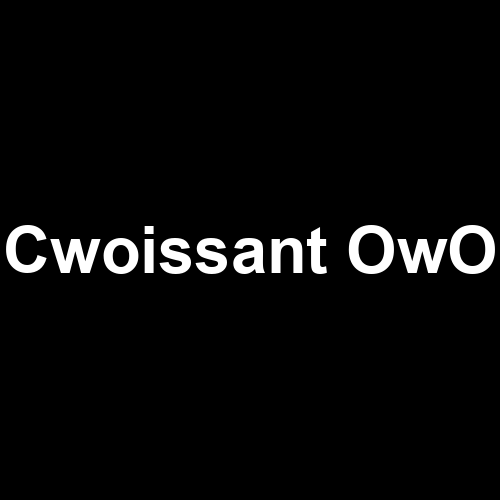
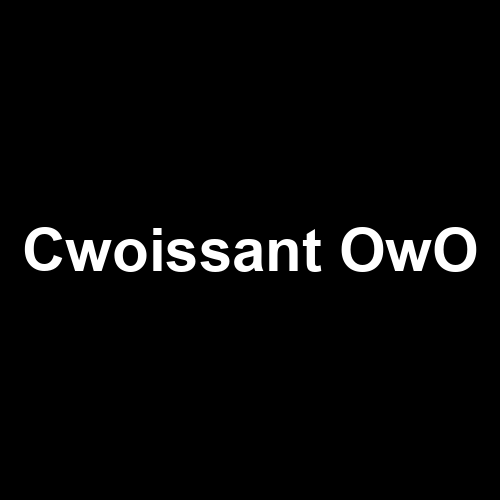
this is broken...

Changed region(s): [[0.0, 0.45, 0.99, 0.57]]

diff --git a/imagesmacker/draw.py b/imagesmacker/draw.py
@@ -97,23 +97,24 @@ class Draw:
 
         text_config = field_attributes.text_config
 
-        font_size = text_config.font_size
+        max_font_size = text_config.max_font_size
+        min_font_size = text_config.min_font_size
         anchor = text_config.anchor
         text_style = text_config.style
 
-        fsc = FontSizeCalculator(self.draw, text_config.font_filepath)
+        font_size_calculator = FontSizeCalculator(self.draw, text_config.font_filepath)
 
         field_x1, field_y1, field_x2, field_y2 = field_coords.xyxy()
-        field_x, field_y, field_width, field_height = field_coords.xywh()
+        field_x_coords, field_y, field_width, field_height = field_coords.xywh()
 
         # If the text is multiline or is allowed to be broken into multiple lines, then
         # we try to break it into multiple lines so that it can fit into the field
         if ("\n" in text) or text_config.break_text:
-            font_size, text_lines_list, text_height = self.break_text(
+            max_font_size, text_lines_list, text_height = self.break_text(
                 text=text,
                 text_config=text_config,
-                font_size=font_size,
-                fsc=fsc,
+                font_size=max_font_size,
+                fsc=font_size_calculator,
                 field_width=field_width,
                 field_height=field_height,
             )
@@ -123,45 +124,62 @@ class Draw:
             time_taken = time.time()
             # iterations benchmarking
             iterations = 0
+            # while True:
+            #     iterations += 1
+            #     text_width, text_height = font_size_calculator.get_text_bbox(font_size, text)
+            #     # If `text_width` is greater than `field_width` or if `text_height` is
+            #     # greater than `field_height`, then the `font_size` will be decremented
+            #     # by 1, and the loop will continue until the condition is no longer
+            #     # satisfied.
+            #     if (text_width > field_width) or (text_height > field_height):
+            #         min_font_size = 1  
+            #         max_font_size = font_size
+
+            #         inner_iterations = 0
+            #         ## Binary search to find the maximum font size that fits
+            #         while min_font_size <= max_font_size:
+            #             inner_iterations += 1
+            #             mid_font_size = (min_font_size + max_font_size) // 2
+            #             text_width, text_height = font_size_calculator.get_text_bbox(
+            #                 mid_font_size,
+            #                 text,
+            #             )
+
+            #             # Check if the text fits within the field dimensions
+            #             if text_width <= field_width and text_height <= field_height:
+            #                 # If it fits, try a larger font size
+            #                 font_size = mid_font_size
+            #                 min_font_size = mid_font_size + 1
+            #             else:
+            #                 # If it doesn't fit, try a smaller font size
+            #                 max_font_size = mid_font_size - 1
+            #         print("Inner iterations: ", inner_iterations)
+            #     else:
+            #         break
+
+            previous_max_font_size = max_font_size * 2
             while True:
                 iterations += 1
-                text_width, text_height = fsc.get_text_bbox(font_size, text)
+                text_width, text_height = font_size_calculator.get_text_bbox(max_font_size, text)
+                print(max_font_size, text_width, text_height, text_width >= (field_width * 0.9), text_height >= (field_height * 0.9))
                 # If `text_width` is greater than `field_width` or if `text_height` is
                 # greater than `field_height`, then the `font_size` will be decremented
                 # by 1, and the loop will continue until the condition is no longer
                 # satisfied.
+                
                 if (text_width > field_width) or (text_height > field_height):
-                    if(False):
-                        font_size -= 1
-                    else:
-                        min_font_size = 1  
-                        max_font_size = font_size
-
-                        inner_iterations = 0
-                        ## Binary search to find the maximum font size that fits
-                        while min_font_size <= max_font_size:
-                            inner_iterations += 1
-                            mid_font_size = (min_font_size + max_font_size) // 2
-                            text_width, text_height = fsc.get_text_bbox(
-                                mid_font_size,
-                                text,
-                            )
-
-                            # Check if the text fits within the field dimensions
-                            if text_width <= field_width and text_height <= field_height:
-                                # If it fits, try a larger font size
-                                font_size = mid_font_size
-                                min_font_size = mid_font_size + 1
-                            else:
-                                # If it doesn't fit, try a smaller font size
-                                max_font_size = mid_font_size - 1
-                        print("Inner iterations: ", inner_iterations)
+                    print("condition 1")
+                    previous_max_font_size = max_font_size
+                    max_font_size = max_font_size // 2
+                elif (text_width < (field_width * 0.9)) and (text_height < (field_height * 0.9)):
+                    print("condition 2")
+                    max_font_size = round((previous_max_font_size + max_font_size)/2)
                 else:
                     break
             # Time benchmark and iterations benchmark
             print("Time taken: ", time.time() - time_taken)
             print("Iterations: ", iterations)
-            print("Selected font size: ", font_size)
+            print("Selected font size: ", max_font_size)
 
 
         # If the text needs to be inverted (ie. turned upside down), then, it needs to
@@ -210,7 +228,7 @@ class Draw:
         draw_text_common_kwargs: dict[str, Any] = {
             "font": font_loader(
                 text_config.font_filepath,
-                font_size,
+                max_font_size,
             ),
             "anchor": anchor,
             "fill": text_style.fill,
@@ -226,7 +244,7 @@ class Draw:
             # but I have a deadline to meet, yknow?
 
             # text_height over length of text_lines_list
-            tholtlt = text_height / len(text_lines_list)
+            text_height_over_text_lines_list = text_height / len(text_lines_list)
 
             # there is a `vertical_additive` to place the multiline text exactly where
             # it is aligned to
@@ -248,19 +266,19 @@ class Draw:
                         else field_y + field_height - text_height
                     )
 
-            text_x = field_coords.text_coordinates(anchor=anchor)[0]  # type: ignore
+            text_x_coords = field_coords.text_coordinates(anchor=anchor)[0]  # type: ignore
 
             if text_config.inverted:
-                text_x -= field_x
+                text_x_coords -= field_x_coords
 
             draw_text_common_kwargs["anchor"] = anchor[0] + "m"
 
             for text_line, text_y in zip(
                 text_lines_list,
-                range(round(tholtlt / 2), text_height, round(tholtlt)),
+                range(round(text_height_over_text_lines_list / 2), text_height, round(text_height_over_text_lines_list)),
                 strict=True,
             ):
-                text_xy = (text_x, vertical_additive + text_y)
+                text_xy = (text_x_coords, vertical_additive + text_y)
                 draw.text(
                     text=text_line,
                     xy=text_xy,
@@ -342,8 +360,6 @@ class Draw:
                 j for i in text_lines_list for j in wrap(i, characters_per_field_width)
             ]
             length_tlt = len(text_lines_list)
-
-            
 
             # Measure the width and height of each line of text, then appened it
             # to the intialized lists earlier

diff --git a/imagesmacker/models/draw.py b/imagesmacker/models/draw.py
@@ -16,7 +16,8 @@ class TextStyle(BaseModel):
 class TextConfig(BaseModel):
     model_config = ConfigDict(extra="forbid")
     font_filepath: str
-    font_size: int = 100
+    min_font_size: int = 1
+    max_font_size: int = 100
     anchor: TextAnchor = "mm"
     break_text: bool = False
     line_height: float | int = 1.2

diff --git a/examples/02_text.py b/examples/02_text.py
@@ -16,7 +16,7 @@ draw = Draw(image)
 field_attributes = TextFieldAttributes(
     text_config=TextConfig(
         font_filepath=f"{parent_dir_nth_times(__file__, 2)}/assets/fonts/arial bold.ttf",
-        font_size=10000,
+        max_font_size=2,
         anchor="mm",
         style=TextStyle(fill="#fff"),
     ),

diff --git a/docs/changelog.md b/docs/changelog.md
@@ -1,3 +1,27 @@
+<h1 align="center" style="font-weight: bold">
+    Changelog
+</h1>
+
+This software uses [Semantic Versioning v2.0.0](https://semver.org/spec/v2.0.0.html). This changelog is based on [keepachangelog.com v1.1.0](https://keepachangelog.com/en/1.1.0/).
+
+**Types of Changes**
+
+- `Added` for new features.
+- `Changed` for changes in existing functionality.
+- `Deprecated` for soon-to-be removed features.
+- `Removed` for now removed features.
+- `Fixed` for any bug fixes.
+- `Security` in case of vulnerabilities.
+## 4.0.0 (Unreleased)
+
+### Added
+
+- Added parameter `min_font_size` to `imagesmacker.models.draw.TextConfig`
+- 
+### Changed
+
+- Changed `imagesmacker.models.draw.TextConfig`'s font_size` parameter name to `max_font_size`
+- Changed text fitting algorithm to be binary search-like
 ## 3.0.2
 
 ### Added
@@ -14,14 +38,14 @@ I do not think there is anything wrong with the codebase right now!!!
 
 ### Fixed
 
-- `imagesmacker.draw.Draw.text` can now draw inverted multiline text by [FUCKING SWAPPING THESE TWO CHARACTERS (`=-` TO `-=`) IN LINE 214 MY GOD](https://github.com/whinee/imagesmacker/commit/0ea1b655fb59e1e61a0fc488560c867cfe2c3872#diff-cac509c2db6ab9619d324a7954ff1466e312219a0c4a7ee709462a97133b247a)
+- Fixed `imagesmacker.draw.Draw.text` to now be able to draw inverted multiline text by [FUCKING SWAPPING THESE TWO CHARACTERS (`=-` TO `-=`) IN LINE 214 MY GOD](https://github.com/whinee/imagesmacker/commit/0ea1b655fb59e1e61a0fc488560c867cfe2c3872#diff-cac509c2db6ab9619d324a7954ff1466e312219a0c4a7ee709462a97133b247a)
 
 ## 3.0.0
 
 ### Added
 
-- Paramaters `error_correction`, `mask_pattern`, `background_color`, and `foreground_color` to `imagesmacker.models.draw.QRCodeConfig`
-- Validation of coordinates in `imagesmacker.models.coordinates.XYXY` and `imagesmacker.models.coordinates.XYWH`
+- Added parameters `error_correction`, `mask_pattern`, `background_color`, and `foreground_color` to `imagesmacker.models.draw.QRCodeConfig`.
+- Added validation of coordinates in `imagesmacker.models.coordinates.XYXY` and `imagesmacker.models.coordinates.XYWH`.
 
 ### Changed
 

diff --git a/docs/dev/optimizations-proposal.md b/docs/dev/optimizations-proposal.md
@@ -1,25 +1,2 @@
 - Font size caching
 - **Text fitting binary search**
-```mermaid
-flowchart TD
-    I --> |yes| D
-    
-    start([start]) ------->
-    H{text width is<br>more than 100%<br>of the text<br>field's width?}
-
-    J ---> H
-
-    H --> |no| I{text height is<br>more than 100%<br>of the text<br>field's height?}
-    
-    I --> |no| F{text width is<br>more than or<br>equal to 90%<br>of the text<br>field's width?}
-    
-
-    F --> |yes| G{text height is<br>more than or<br>equal to 90%<br>of the text<br>field's height?}
-    F --> |no| J[increase text's<br>font size by 50%]
-
-
-    G --> |yes| C[draw text<br>on image] --> E([end])
-    G --> |no| J
-
-    H --> |yes| D[halve the text's<br>font size] --> H
-```

diff --git a/docs/dev/algorithms/text-fitting.md b/docs/dev/algorithms/text-fitting.md
@@ -1,0 +1,23 @@
+```mermaid
+flowchart TD
+    I --> |yes| D
+    
+    start([start]) ------->
+    H{text width is<br>more than 100%<br>of the text<br>field's width?}
+
+    J ---> H
+
+    H --> |no| I{text height is<br>more than 100%<br>of the text<br>field's height?}
+    
+    I --> |no| F{text width is<br>more than or<br>equal to 90%<br>of the text<br>field's width?}
+    
+
+    F --> |yes| G{text height is<br>more than or<br>equal to 90%<br>of the text<br>field's height?}
+    F --> |no| J[increase text's<br>font size by 50%]
+
+
+    G --> |yes| C[draw text<br>on image] --> E([end])
+    G --> |no| J
+
+    H --> |yes| D[halve the text's<br>font size] --> H
+```

diff --git a/docs/TODO.md b/docs/TODO.md
@@ -1,0 +1,21 @@
+<h1 align="center" style="font-weight: bold">
+    TODO
+</h1>
+
+<!-- All tasks are completed! -->
+
+Items are sorted by priority, with the most important item at the top and least important at the bottom.
+
+## Permanent
+
+- [ ] Unit testing for mission critical piece of code
+
+## Temporary
+
+- [ ] `imagesmacker.models` Models strict validation thru pydantic 
+- [ ] Use [typeguard](https://typeguard.readthedocs.io/en/stable/userguide.html) to type check function arguments and return values in runtime
+- [ ] Migrate from `poetry` to `uv`
+- [ ] Add test coverage in README
+- [ ] Replace `pyyaml` library dependency with `ruamel.yaml`
+
+## Done
